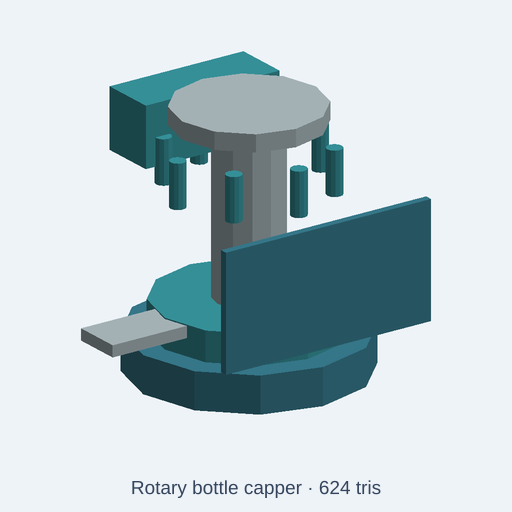
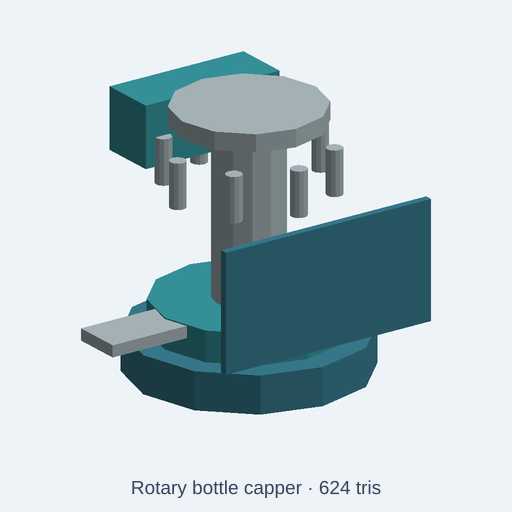
fix(catalog): render the rotary capper's torque heads as stainless
The eight capping heads on beverage-bottling-line/rotary-capper are
machined torque-chuck spindles. Their part names (capper-head-N) matched
the food-grade polymer rule (/cap/), so they rendered as teal plastic
rods. Route capper-head parts to the existing stainlessSteel control
ahead of the polymer rule. No new controls; presets, geometry, part
names and the triangle count (624 / 2,200) are unchanged.

The new GLB colour test fails on the old source (capper-head-0 not
stainless) and passes on the fix. tests/integration/catalog: 117/117
files, 185/185 tests pass. ESLint on the asset and test: clean. The
index diff touches only the rotary-capper row. A before/after MP4 was
inspected locally.

Preview audit ledger (beverage-bottling-line; no open issue/PR target):
- rotary-capper: capper heads teal polymer, should be stainless ->
  fixed here. bottle-table also matches /bottle/ and renders polymer;
  the front guard is an opaque powder-coat slab, not clear; noted.
- pet-blow-molder: machine body sits on the mould columns with no
  frame under it; noted.
- preform-orienter-bowl: solid drum, no open bowl or spiral track;
  noted.
- case-taper: infeed/outfeed belt beds have no supports; noted.
- carbonation-vessel: shell, dished heads, legs, fittings; no defect.

Changed region(s): [[0.5625, 0.25, 0.6875, 0.4375], [0.2812, 0.25, 0.4062, 0.4062], [0.4375, 0.3125, 0.5, 0.4375]]

diff --git a/tests/integration/catalog/rotaryCapperHeadMaterial.test.ts b/tests/integration/catalog/rotaryCapperHeadMaterial.test.ts
@@ -1,0 +1,64 @@
+// SPDX-License-Identifier: MIT
+// Copyright (c) 2026 Andrii Shylenko and kernelCAD contributors
+
+import { resolve } from 'node:path';
+import { NodeIO } from '@gltf-transform/core';
+import { beforeAll, describe, expect, it } from 'vitest';
+import { buildCatalogAssetWithGlb } from '../../../src/agent/catalog/buildCatalog';
+import { initOcct } from '../../../src/kernel/backends/occt/occtBackend';
+
+const repoRoot = resolve(import.meta.dirname, '../../..');
+const source = 'catalog/kits/beverage-bottling-line/rotary-capper.kcad.ts';
+
+beforeAll(async () => {
+  await initOcct();
+}, 120_000);
+
+describe('beverage-bottling-line/rotary-capper materials', () => {
+  it('renders the torque capping heads as stainless steel, not food-grade polymer', async () => {
+    const { asset, glb } = await buildCatalogAssetWithGlb(repoRoot, source);
+
+    expect(asset.stats.triangles).toBeLessThanOrEqual(asset.triangleBudget);
+    expect(asset.params.filter((param) => param.type === 'color').map((param) => param.name)).toEqual([
+      'stainlessSteel', 'powderCoat', 'foodPolymer',
+    ]);
+    expect(Object.keys(asset.presets)).toEqual(['sanitaryLine', 'legacyPlant']);
+
+    const document = await new NodeIO().readBinary(glb);
+    const nodes = document.getRoot().listNodes();
+    const colorsFor = (name: string) => {
+      const node = nodes.find((candidate) => candidate.getName() === name);
+      return node?.getMesh()?.listPrimitives().flatMap((primitive) => {
+        const vertexColors = primitive.getAttribute('COLOR_0');
+        if (vertexColors !== null) {
+          return Array.from({ length: vertexColors.getCount() }, (_, index) => {
+            const color = vertexColors.getElement(index, []);
+            return color.slice(0, 3).map((channel) =>
+              channel <= 0.0031308 ? 12.92 * channel : 1.055 * channel ** (1 / 2.4) - 0.055,
+            );
+          });
+        }
+        const material = primitive.getMaterial();
+        return material === null ? [] : [material.getBaseColorFactor().slice(0, 3)];
+      }) ?? [];
+    };
+    const matches = (hex: string) => {
+      const expected = [1, 3, 5].map((shift) => parseInt(hex.slice(shift, shift + 2), 16) / 255);
+      return (color: number[]) => expected.every((channel, index) =>
+        Math.abs(channel - color[index]!) < 0.015,
+      );
+    };
+
+    for (let index = 0; index < 8; index += 1) {
+      const head = colorsFor(`capper-head-${index}`);
+      expect(head.length, `capper-head-${index} mesh`).toBeGreaterThan(0);
+      expect(head.every(matches('#aebdc1')), `capper-head-${index} should be stainless steel`).toBe(true);
+    }
+    const column = colorsFor('turret-column');
+    expect(column.length).toBeGreaterThan(0);
+    expect(column.every(matches('#aebdc1')), 'turret column should stay stainless steel').toBe(true);
+    const guard = colorsFor('front-guard');
+    expect(guard.length).toBeGreaterThan(0);
+    expect(guard.every(matches('#397e91')), 'front guard should stay powder-coated steel').toBe(true);
+  }, 120_000);
+});

diff --git a/catalog/kits/beverage-bottling-line/rotary-capper.kcad.ts b/catalog/kits/beverage-bottling-line/rotary-capper.kcad.ts
@@ -37,6 +37,8 @@ const cylinderPart = (x:number,y:number,z:number,h:number,r:number,n=10) => cyli
 const p = assembly("rotary-capper");
 const finishPart = (name: string, shape: ReturnType<typeof boxPart>) => {
   const component = name.toLowerCase();
+  // The torque-chuck spindles are machined stainless; keep them out of the /cap/ polymer rule.
+  if (/capper-head/.test(component)) return shape.color(stainlessSteel);
   if (/belt|guide|film|web|label|pad|seal|grip|cap|bottle|liner|tray|hose|cleat|divider|wheel|wrap|tape|suction|sleeve/i.test(component)) return shape.color(foodPolymer);
   if (/base|leg|foot|frame|support|stand|control|housing|cabinet|motor|drive|beam|panel|hood|skid|mount|platform|guard|rail|post|lift|jacket/i.test(component)) return shape.color(powderCoat);
   return shape.color(stainlessSteel);
